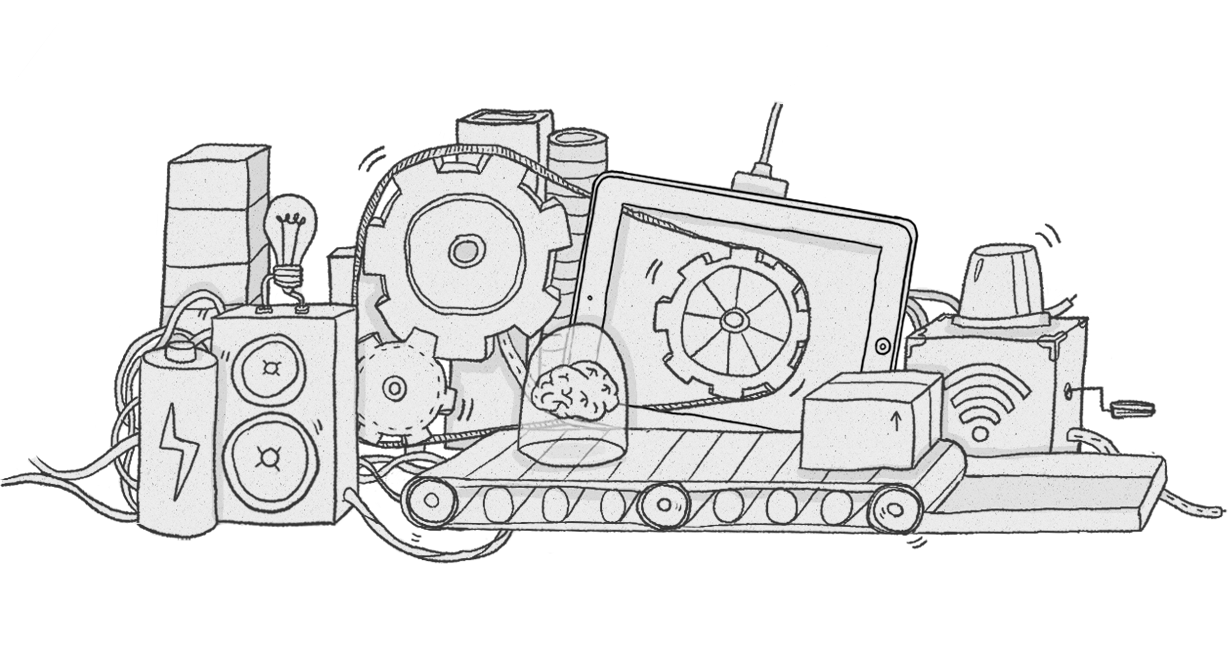
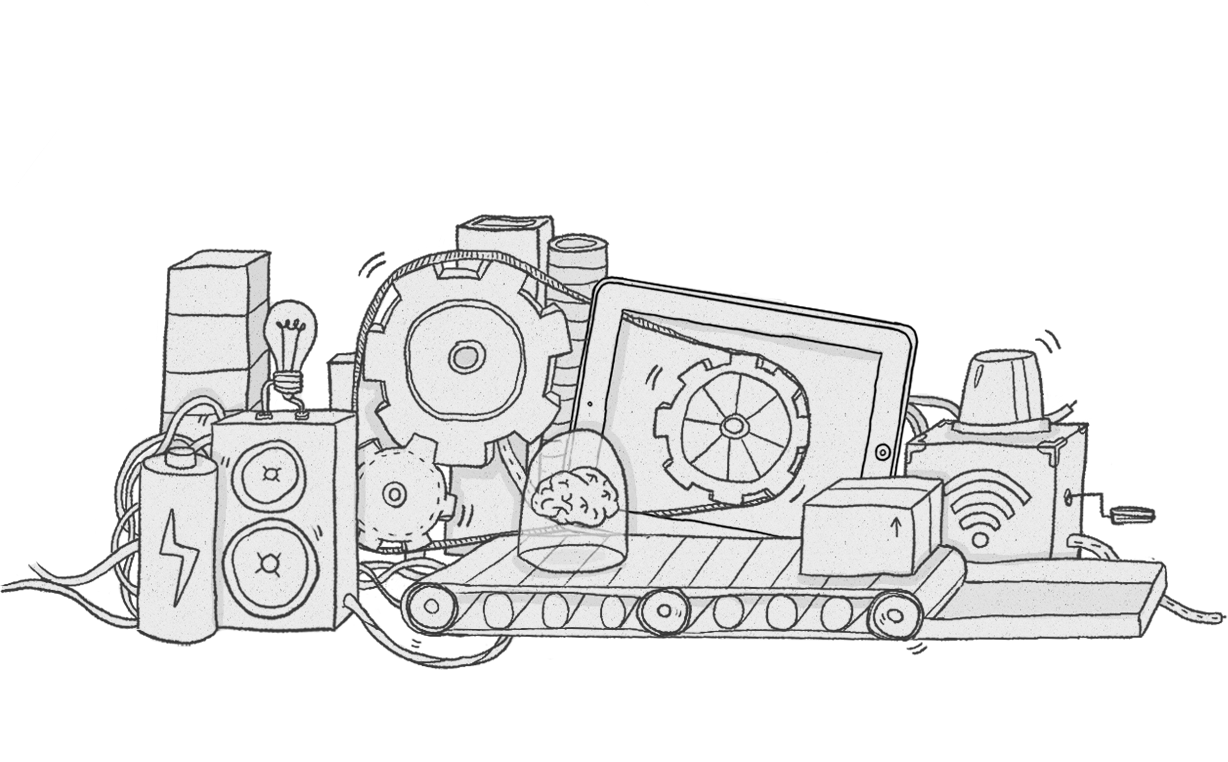
Debut transition machine

Changed region(s): [[0.0, 0.1524, 1.0, 0.8841]]

diff --git a/index.html b/index.html
@@ -246,16 +246,24 @@
                 </div>
 
             </div>
-			<div id="demain-wrapper">
-				
-			</div>
-			<div id="acteurs-modele-economique-wrapper">
-				
-			</div>
-			<div id="avantages-limites-dangers-wrapper">
-				
-			</div>
         </div>
+         <div id="transition-machine">
+            <!--Image bg de la ville -->
+                <div id="anime-machine-wrapper">
+                    <div id="ligne-de-vie-machine">
+                        
+                    </div>
+                </div>
+            </div>
+            <div id="demain-wrapper">
+                
+            </div>
+            <div id="acteurs-modele-economique-wrapper">
+                
+            </div>
+            <div id="avantages-limites-dangers-wrapper">
+                
+            </div>
     </div>
 </body>
 </html>

diff --git a/css/style.css b/css/style.css
@@ -520,7 +520,25 @@ p {
 	top: -2180px;
 	left: 335px;
 }
-
+#transition-machine{
+	width: 100%;
+	height: 656px;
+	background-image:url(../res/transition-2-3/machine.png);
+	background-position: top,center;
+	background-repeat: no-repeat;
+}
+#anime-machine-wrapper{
+	width: 1000px;
+	height: 700px;
+	margin: auto;
+}
+#ligne-de-vie-machine{
+	width: 161px;
+	height: 360px;
+	background-image:url(../res/transition-2-3/ligne-de-vie-machine.png);
+	background-position: center;
+	background-repeat: no-repeat;
+}
 /* clear float */
 .clearer{
 	clear:both;
